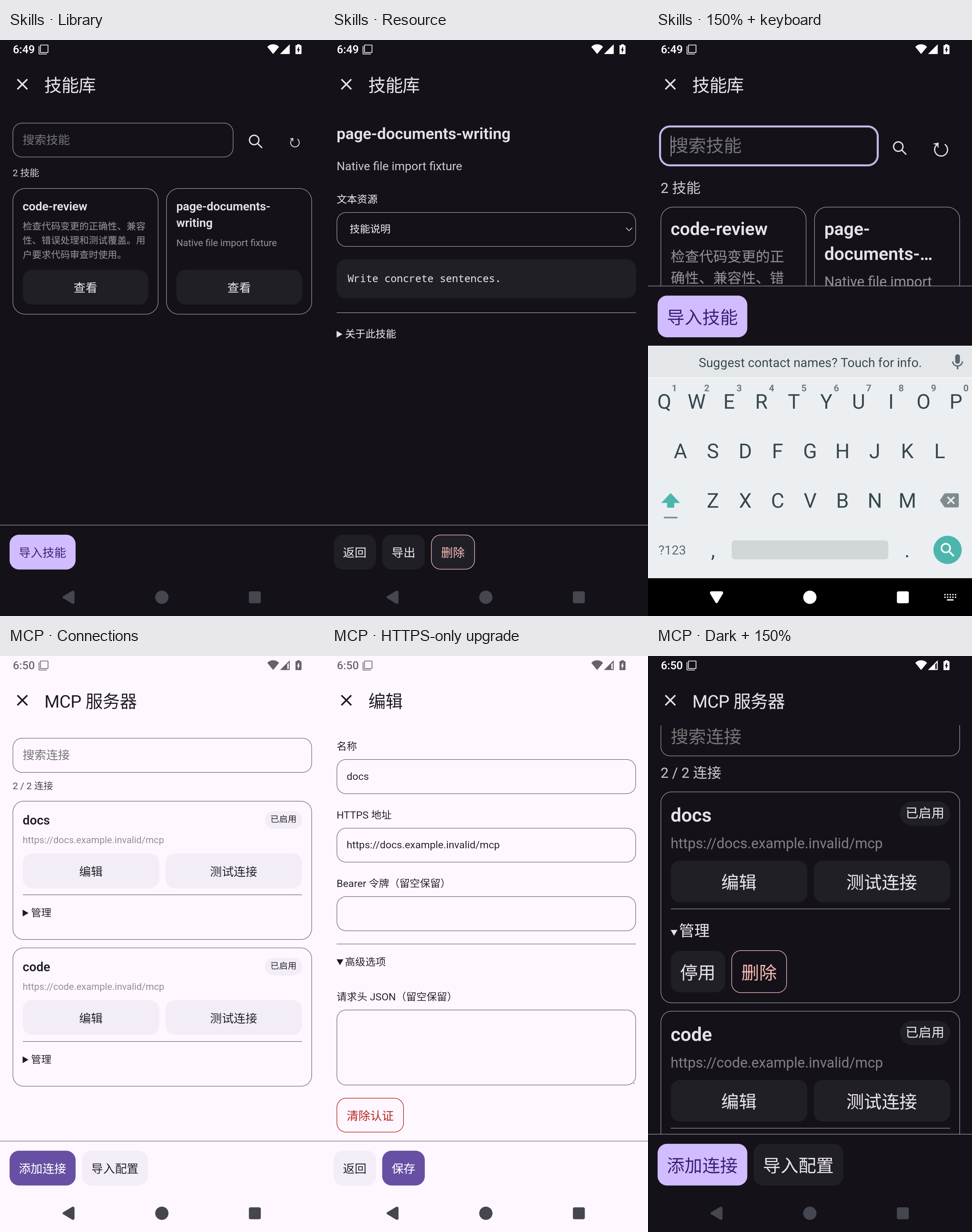
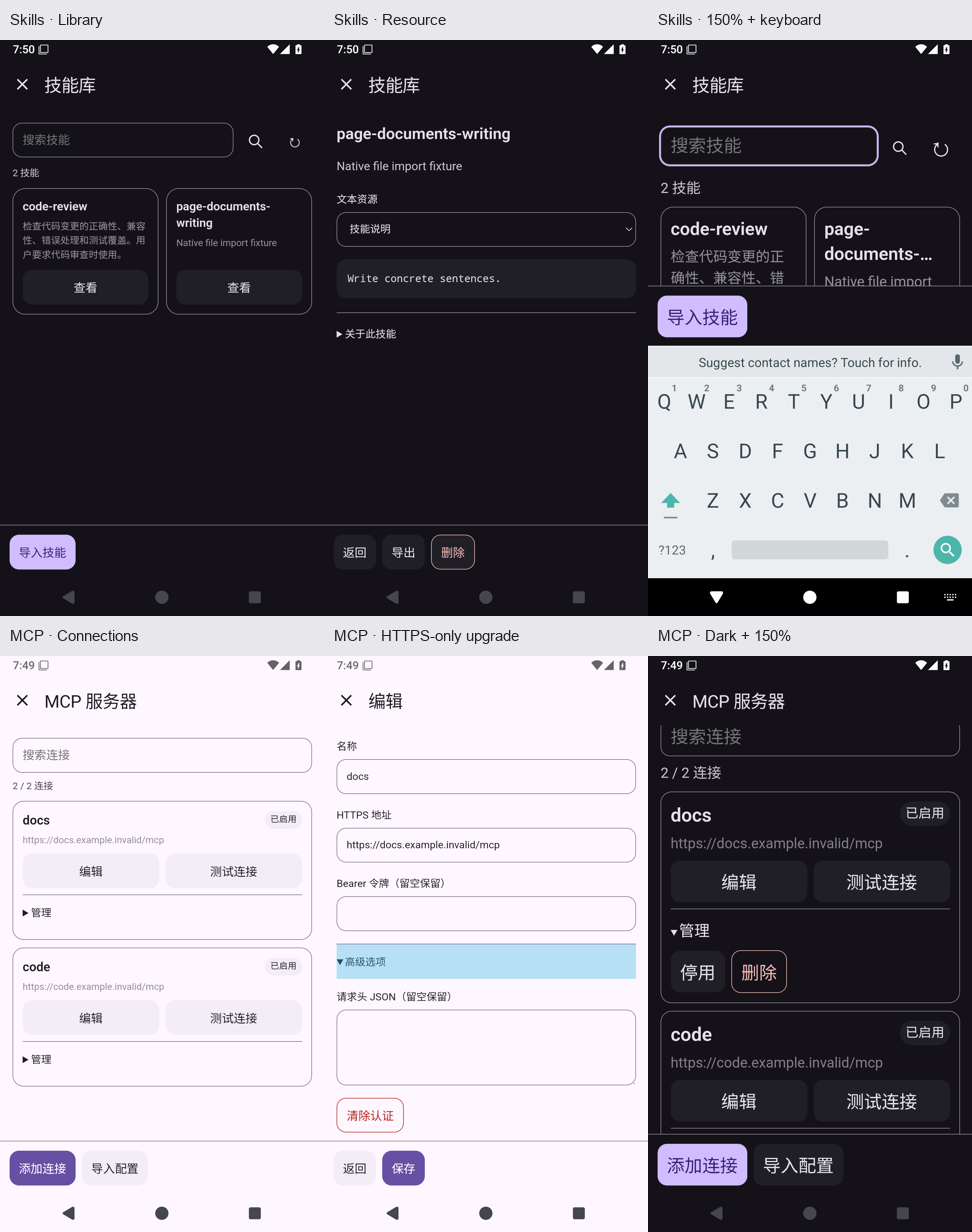
docs: record verified UI candidate APK and remaining marketplace deployment

Changed region(s): [[0.3395, 0.7403, 0.679, 0.8019]]

diff --git a/docs/release-0.43.10.md b/docs/release-0.43.10.md
@@ -1,13 +1,28 @@
-# Solvit 0.43.10（候选，尚未正式发布）
+# Solvit 0.43.10（已验证候选，尚未正式发布）
 
-本轮整理Skills与MCP插件自己的HTML/JS页面。
+这轮整理 Skills、MCP 插件自己的 HTML/JS 页面，并修复升级和终端结束状态的两个问题。
 
-- Skills搜索、清空与刷新集中在一行，库保留两列紧凑卡片；无匹配结果有独立提示，详情/预览与库列表分层，正文资源独立阅读，返回保留搜索和阅读位置。
-- MCP连接可按名称/地址在本页筛选；编辑、测试留在外层，启停、删除收到管理区。表单显示选中的HTTPS/Ubuntu传输方式，头、环境和目录等高级项按需展开；原生确认、认证留空保留、多连接和加密存储继续保留。
-- 修复PTY输出结束先于子进程退出时丢失退出码的竞态；可取消地等待真实进程结果，保留Shell切换时的显示状态。
-- 旧权限Skills/MCP也能获得同一套新版页面，保留只读/HTTPS能力和原有授权；原始1.1.1包下载保持不变。
-- 原版1.2.0插件可保持数据、配置、授权与停用状态升级；旧的权限扩张仍需显式更新和授权，修改包与卸载选择保留。
+- Skills 的搜索、清空与刷新集中在一行，卡片保留两列；无匹配结果有独立提示。正文资源单独阅读，返回保留搜索和阅读位置。
+- MCP 连接可按名称、地址筛选。编辑、测试留在外层，启停、删除收到管理区；传输方式明确，高级参数按需展开，原生确认、认证留空保留、多连接与加密存储继续保留。
+- 旧权限 Skills/MCP 也能获得同一套新版页面，保留只读/HTTPS 能力、数据与授权。原始1.1.1包下载保持不变；添加工作区或本地执行能力仍需明确更新和授权，修改包与卸载选择保留。
+- 修复 PTY 输出先结束、子进程尚未退出时丢失退出码的问题。可取消地等待真实进程结果，切换 Shell 后继续显示实际退出码。
 
-0.43.10/build93沿用固定签名。本文件仍为候选：远程Android验证进行中，线上Skills市场尚待同步，新版正式发布未完成。当前正式版为0.43.9。
+![候选版实际模拟器截图](images/skills-mcp-ui-0.43.10.png)
 
-[阶段记录](skills-mcp-ui-polish-stage.md)。完整UI打磨、真实模型/账号任务、ARM64真机和第三方服务兼容继续保留。
+## 已完成的远程验证
+
+[完整 Android Actions](https://github.com/veryy/Solvit/actions/runs/39013850707) 对代码2056b5fe成功：625项单元、Lint、固定签名、112项常规模拟器用例（App83/Web3/terminal26）、15场进程中断恢复、覆盖升级、1.5倍字体完整聊天、实际stdio宿主/监督/工作/后代进程清理。原始XML、runner结果、真实前后PID、APK及UI产物的SHA/CRC均已核对，必需回归无缺失，无failure/error/skip。
+
+[终端独立回归](https://github.com/veryy/Solvit/actions/runs/39013928562)通过96次自然exit7及结束/关闭场景；修复前相同用例[第2次即失败](https://github.com/veryy/Solvit/actions/runs/39013515600)。[插件验证](https://github.com/veryy/Solvit/actions/runs/39010939662)通过SDK147、market7和源包一致性，随后插件源/包字节未改。Linux独立run39007867317的3项真实Ubuntu设备测试及原始产物已核对，其后Linux/proot实现未改；这不替代正式标签的全部检查。
+
+0.43.10/build93沿用原固定签名，可覆盖安装。已下载的`solvit-debug-apk`产物12094555586中APK为59646927字节，SHA-256：
+
+```text
[1 lines of base64/hex data omitted]
+```
+
+## 正式发布尚缺的步骤
+
+2026-10-17实际查询：正式Release仍为0.43.9，线上Skills/MCP仍为1.2.0。服务器SSH batch登录返回Permission denied；六个文件的市场更新包及精确校验值已准备，尚未部署。同步后须让严格live Skills校验及正式标签检查通过，才发布0.43.10；未降低或跳过该门禁。
+
+真机、真实模型回答质量、实际账号任务、ARM64和更广泛第三方服务兼容尚未验收。[阶段记录](skills-mcp-ui-polish-stage.md)保存本轮发现、失败和修复过程；完整路线见[后续方向](agent-direction.md)。

diff --git a/docs/skills-mcp-ui-polish-stage.md b/docs/skills-mcp-ui-polish-stage.md
@@ -70,3 +70,15 @@ MCP窗口原有FLAG_SECURE令系统截图为黑色，这是预期保护；实际
 独立远程terminal-eof用例先使用文件门控，run39013136354通过但未充分触发自然teardown，未据此宣称消除问题。提取实际自然exit7路径连续96次，run39013515600在第2次（attempt1）明确失败expected7/actualnull，建立失败反馈；保留同一断言和关闭门控场景，修复后再远程验收。设备发布门禁增加实际新回归名称及terminal26下限（常规总112），门禁自身验证也覆盖所有模块的required case，未放宽旧用例或超时。
 
 修复2056b5fe的相同专项run39013928562成功，原始runner耗时8.991秒、OK(1 test)，对应96次自然exit7循环及门控结束/关闭流程。产物12093649415（454449字节、SHAe9c61df7b1894a2931df707994c61fe19ee12a02adecac41115e8c558dd9508b）整ZIP SHA/CRC和原始结果已核对；未改变红测断言、未通过延长等待隐藏失败。完整Android39013850707仍在执行，尚不交付候选。
+
+## 已验证候选（正式发布仍待市场同步）
+
+完整Android39013850707在2056b5fe成功。原始单位XML625例与常规设备XML App83/Web3/terminal26（合112）全无failure/error/skip，所有required回归都在；15场process-death runner与真实before/after PID、覆盖升级、1.5倍完整聊天、实际stdio四层进程强杀回收均已独立核对。UI产物12094651275（11779334字节，SHA00acbac25b166a6349c687660521dd1513b3ce4a82d9c8749bdebcd2e0e008b4）整ZIP SHA/CRC与最终截图已核对。本页六联图已换成本次完整回归的实际截图；终端真实截图确认切换后显示已关闭·7。
+
+APK产物12094555586（ZIP58353221字节，SHAf58e6aa99cb0abbf7ce779de58f4480e240a2f2584fbcd10a7ec1ef5d0846799）下载整包核对后，APK内current与compat的四个包逐字节对照提交，APK本体CRC通过；本体59646927字节，SHAb48df5e7c0687699d42a7bb665ff949addada87f2cef67471404d5d3cca676d0。构建日志证书SHA仍f076abf86de542063f8655abf9021cb88b642ab9b664cafc46c0f16b4303bcc3，Gradle成功。Linux依赖源码内ZIP也检查CRC并与候选一起提供。
+
+2026-10-17最终公开查询再次确认：Release为v0.43.9/415598425，Skills/MCP市场为1.2.0。另备只包含六个包及清单/说明的225621字节市场更新归档（SHAe0f584399fa93cba8890010a1a5de059fa7741b1aa33d544108f4cf43cb2f87a）：先保留旧1.2.0历史，再加入1.1.2兼容包，最后原子更新current1.2.1；不替换服务器配置或删除其他历史。该更新尚未部署，严格live Skills未被减弱。
+
+此状态为已验证候选，不能记作正式Release或全部UI目标完成。真实模型、账号任务、ARM64真机以及完整插件协议/交互路线继续保留。
+
+![真实终端状态：切换Shell后保留实际退出码7](images/terminal-exit-state-0.43.10.png)

diff --git a/docs/agent-direction.md b/docs/agent-direction.md
@@ -2,6 +2,8 @@
 
 ## 当前交付顺序（2026-10-17）
 
+[0.43.10已验证候选](release-0.43.10.md)整理Skills/MCP插件页面、旧权限包的界面升级，并修复PTY EOF先于进程退出时丢码的竞态；完整Android39013850707成功，候选APK已下载核对。正式Release仍0.43.9：线上市场仍1.2.0，部署连接被拒绝，需恢复连接、同步准备好的市场包并通过原有严格发布检查。此处不将候选记为正式发布，不替代真实模型/任务验收或下方完整路线。
+
 本轮继续按用户反馈打磨UI及交互逻辑。[0.43.9](release-0.43.9.md)的Linux环境状态、安装/日志层级与终端会话管理已正式交付，真实退出码丢失修复、旧包升级保持设置和公开APK核对通过。此前[0.43.8](release-0.43.8.md)工作目录导航、操作分组和Git共用组件，以及[0.43.6](release-0.43.6.md)设置、插件、授权与队列调整保留。继续围绕实际任务打磨聊天、插件页面与工作区交互；真实模型任务、Linux兼容及完整插件协议的范围和下列验收要求继续保留。0.43.4、0.43.5、0.43.7未发布的历史记录与标签不改。
 
 此前[0.43.3](release-0.43.3.md)基线：更新Compose生命周期依赖及备份按钮状态，并完成排队界面测试的完整回归；原0.43.2插件文档所有权修复继续保留。Skills1.2.0已打通资源准备与实际Ubuntu Python/Node执行，旧用户需明确更新、审阅新增workspace权限。以下早期研究与阶段复核按时间保留，不代表所有差距仍未实现。Linux开发环境已经发布，Python、Node/npm、Java与共享工作区的实际验证和限制见[环境指南](linux-environment.md)。无需重新实现一套虚拟环境。
